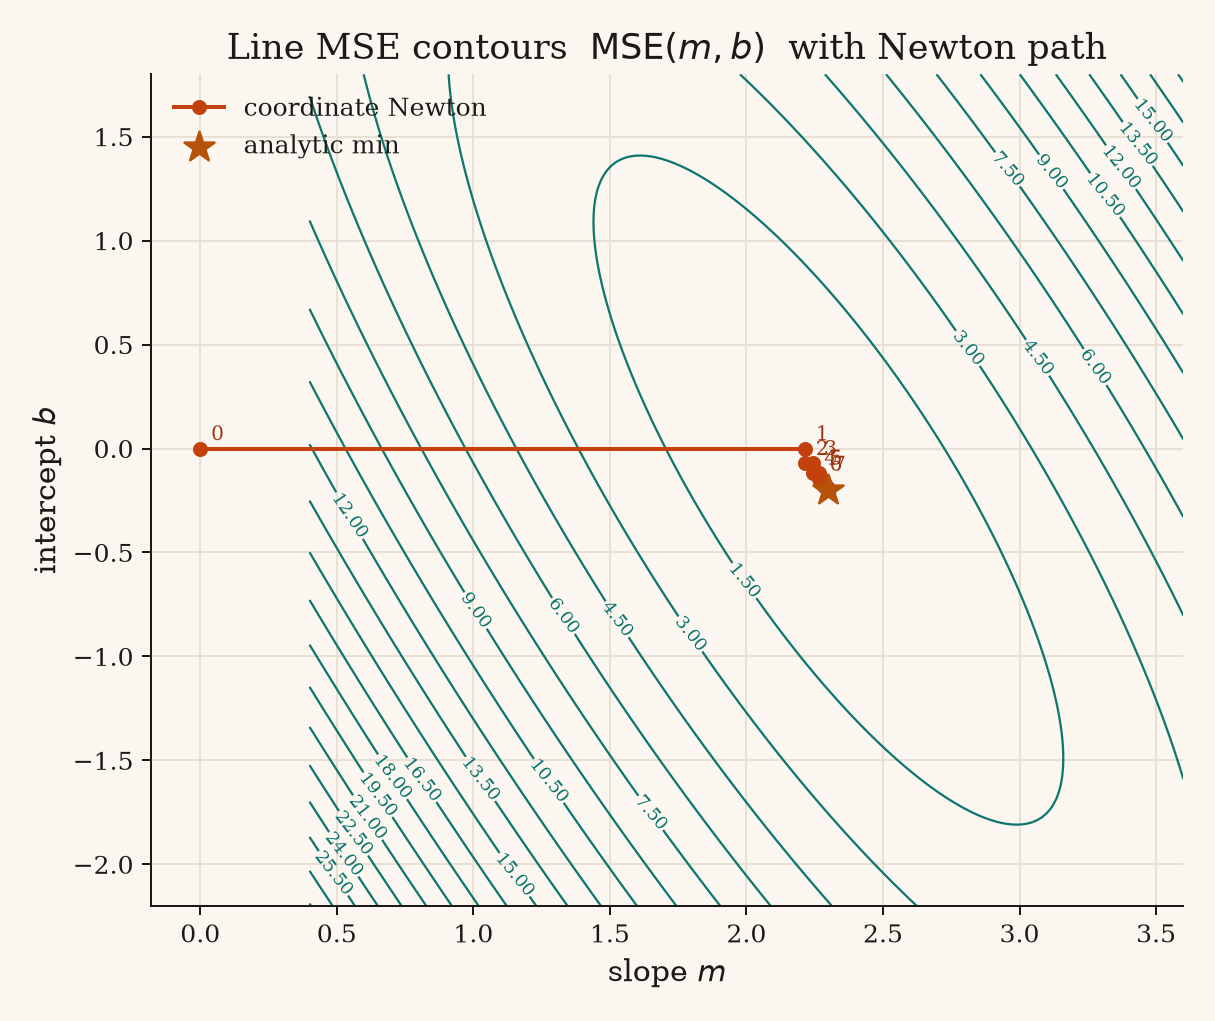
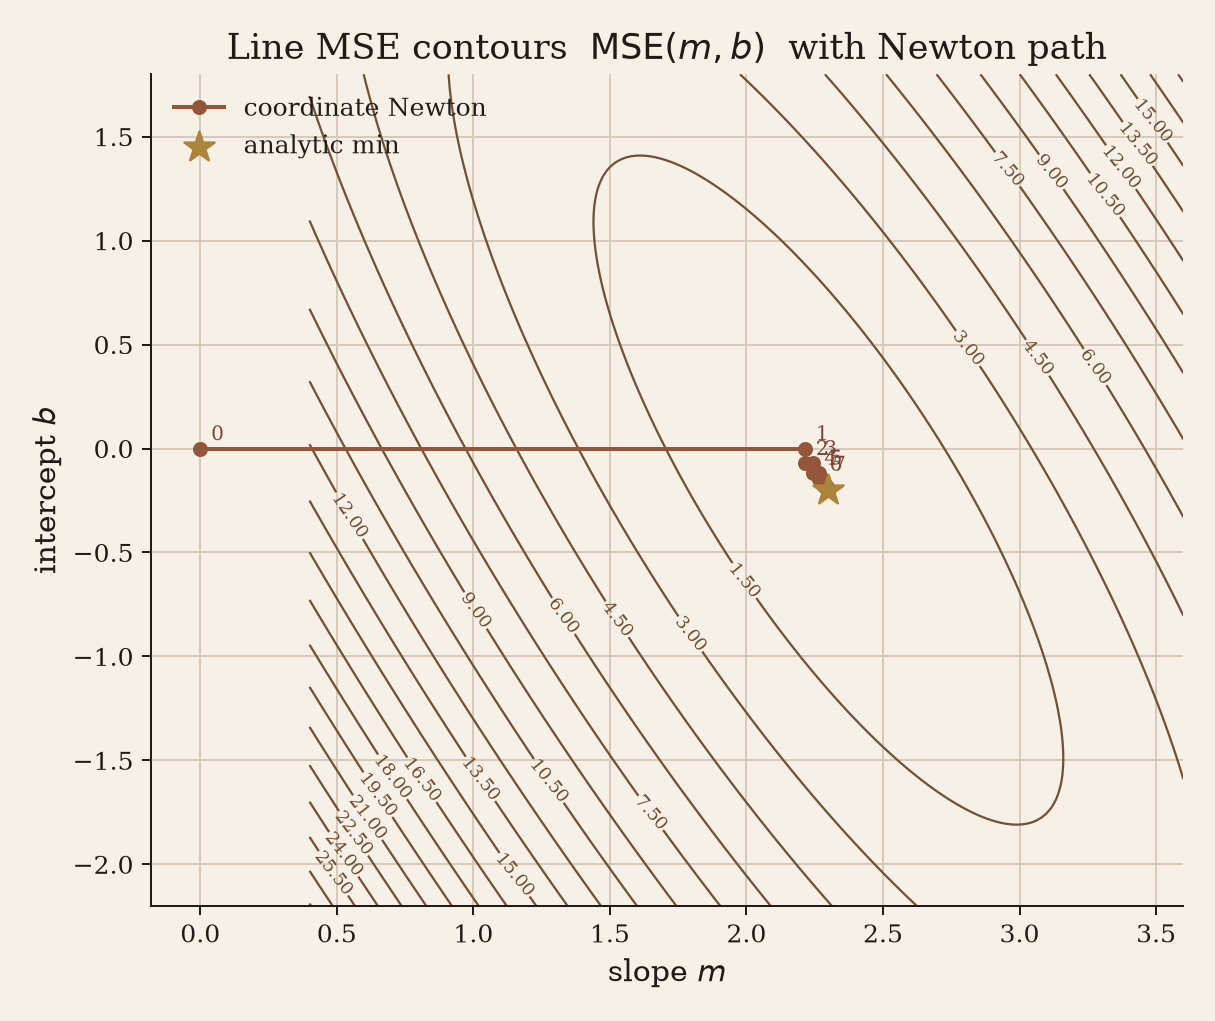
Update styling of figures

diff --git a/1/index.html b/1/index.html
@@ -304,9 +304,9 @@
       <p>
         The figure tests \(y=x^2\) from \((3,1)\),
         \(y=0.5x^2-x+2\) from \((-2,4)\), and
-        \(y=-0.3x^2+4\) from \((1,-2)\). In each panel, the red
-        point is the query, the gold point is Newton's closest point, and
-        the dashed segment joins them. Newton starts at the query's
+        \(y=-0.3x^2+4\) from \((1,-2)\). In each panel, a circle marks
+        the query point and a square marks Newton's closest point. The
+        dashed segment joins them. Newton starts at the query's
         x-coordinate; golden-section search uses \([-8,8]\). The displayed
         distance is Newton's result; golden-section search is also computed
         for comparison but is not plotted here.

diff --git a/1/code/generate_figures.py b/1/code/generate_figures.py
@@ -10,21 +10,26 @@ from pathlib import Path
 import matplotlib.pyplot as plt
 import numpy as np
 from matplotlib.collections import LineCollection
+from matplotlib.colors import LinearSegmentedColormap
 from matplotlib.patches import FancyArrowPatch
 
 ROOT = Path(__file__).resolve().parents[1]
 MEDIA = ROOT / "media"
 MEDIA.mkdir(parents=True, exist_ok=True)
 
-INK = "#1C1917"
-PAPER = "#FBF7F0"
-GRID = "#E8E0D4"
-TERRACOTTA = "#C2410C"
-TEAL = "#0F766E"
-GOLD = "#B45309"
-SLATE = "#57534E"
-CLAY = "#9A3412"
-NAVY = "#1E3A5F"
+INK = "#211A16"
+PAPER = "#F6F0E7"
+GRID = "#D7CABA"
+TERRACOTTA = "#94563B"
+BROWN = "#6F5239"
+GOLD = "#AD843C"
+SLATE = "#49443F"
+CLAY = "#784632"
+NAVY = "#273D56"
+FALL_OLIVE = "#59634B"
+FALL_CMAP = LinearSegmentedColormap.from_list(
+    "fall", [GOLD, TERRACOTTA, BROWN, NAVY]
+)
 
 plt.rcParams.update(
     {
@@ -261,8 +266,8 @@ def annotate_point(ax, x, y, text, color=INK, offset=(8, 8)):
 def fig_overview(results):
     fig, ax = plt.subplots(figsize=(8.6, 6.3))
     xs = np.linspace(-10, 8, 500)
-    ax.plot(xs, xs**2 + 5, color=TEAL, lw=2.6, label=r"$y = x^2 + 5$")
-    colors = [TERRACOTTA, GOLD, NAVY, CLAY, "#7C3AED"]
+    ax.plot(xs, xs**2 + 5, color=BROWN, lw=2.6, label=r"$y = x^2 + 5$")
+    colors = [TERRACOTTA, GOLD, NAVY, CLAY, FALL_OLIVE]
     for (x0, y0), rec, col in zip(QUERY_POINTS, results, colors):
         xstar = rec["x_analytic"]
         ystar = xstar**2 + 5
@@ -302,7 +307,7 @@ def fig_orthogonality():
     ystar = xstar**2 + 5
     fig, ax = plt.subplots(figsize=(8.2, 6.0))
     xs = np.linspace(-10, 2, 400)
-    ax.plot(xs, xs**2 + 5, color=TEAL, lw=2.4, label=r"$f(x)=x^2+5$")
+    ax.plot(xs, xs**2 + 5, color=BROWN, lw=2.4, label=r"$f(x)=x^2+5$")
     ax.scatter([x0], [y0], s=70, color=TERRACOTTA, zorder=5, label="query $(-8,0)$")
     ax.scatter([xstar], [ystar], s=70, color=GOLD, zorder=5, label="closest point")
     ax.plot([x0, xstar], [y0, ystar], color=TERRACOTTA, lw=1.8)
@@ -343,7 +348,7 @@ def fig_newton_geometry(x0=-8.0, y0=0.0, guess=-2.5):
     d, xstar, hist = find_distance_newton(x0, y0, f, df, ddf, initial_guess=guess)
     fig, ax = plt.subplots(figsize=(8.2, 6.0))
     xs = np.linspace(-10, 2, 400)
-    ax.plot(xs, f(xs), color=TEAL, lw=2.4, label=r"$y=x^2+5$")
+    ax.plot(xs, f(xs), color=BROWN, lw=2.4, label=r"$y=x^2+5$")
     ax.scatter([x0], [y0], s=70, color=TERRACOTTA, zorder=6, label="query")
     for i, x in enumerate(hist[:8]):
         if i > 5:
@@ -378,7 +383,7 @@ def fig_newton_dprime(x0=-8.0, y0=0.0, guess=-2.5, hist=None):
     xs = np.linspace(-5.2, 1.2, 500)
     fig, ax = plt.subplots(figsize=(8.2, 5.4))
     ax.axhline(0, color=SLATE, lw=0.9)
-    ax.plot(xs, [Dp(x) for x in xs], color=TEAL, lw=2.2, label=r"$D'(x)$")
+    ax.plot(xs, [Dp(x) for x in xs], color=BROWN, lw=2.2, label=r"$D'(x)$")
     nshow = min(6, len(hist) - 1)
     for i in range(nshow):
         x = hist[i]
@@ -412,7 +417,7 @@ def fig_golden(x0=-8.0, y0=0.0, a=-12.0, b=4.0):
     fig, (ax0, ax1) = plt.subplots(
         2, 1, figsize=(8.2, 7.0), sharex=True, gridspec_kw={"height_ratios": [1.35, 1.0]}
     )
-    ax0.plot(xs, Dvals, color=TEAL, lw=2.2, label=r"$D(x)=(x+8)^2+(x^2+5)^2$")
+    ax0.plot(xs, Dvals, color=BROWN, lw=2.2, label=r"$D(x)=(x+8)^2+(x^2+5)^2$")
     ax0.axvline(xstar, color=TERRACOTTA, ls="--", lw=1.2, label=f"minimizer $x^*={xstar:.4f}$")
     ax0.scatter([xstar], [dist_sq(xstar, x0, y0, f)], color=TERRACOTTA, s=40, zorder=5)
     ax0.set_ylim(70, 220)
@@ -420,7 +425,7 @@ def fig_golden(x0=-8.0, y0=0.0, a=-12.0, b=4.0):
     ax0.set_title("Golden-section search: objective and shrinking bracket")
     ax0.legend(frameon=False, loc="upper right")
 
-    cmap = plt.cm.Oranges
+    cmap = FALL_CMAP
     nplot = min(18, len(hist))
     for i in range(nplot):
         lo, hi, x1, x2 = hist[i]
@@ -461,10 +466,10 @@ def fig_all_points_table_plot(results):
     for (r, c), cell in table.get_celld().items():
         cell.set_edgecolor(GRID)
         if r == 0:
-            cell.set_facecolor(TEAL)
+            cell.set_facecolor(BROWN)
             cell.set_text_props(color="white", fontfamily="DejaVu Sans")
         else:
-            cell.set_facecolor(PAPER if r % 2 else "#F3EDE3")
+            cell.set_facecolor(PAPER if r % 2 else "#EBE1D5")
     ax.set_title("Agreement of analytic, Newton, and golden-section distances", pad=18)
     save(fig, "p1_table.png")
 
@@ -483,7 +488,7 @@ def fig_nonpoly():
         dN, xN, hist = find_distance_newton(x0, y0, f, df, ddf, initial_guess=guess)
         dG, xG, _ = golden_section_search(x0, y0, f, lo, hi)
         xs = np.linspace(lo, hi, 400)
-        ax.plot(xs, f(xs), color=TEAL, lw=2.1, label=label)
+        ax.plot(xs, f(xs), color=BROWN, lw=2.1, label=label)
         ax.scatter([x0], [y0], color=TERRACOTTA, s=50, zorder=5, label="query")
         ax.scatter([xN], [f(xN)], color=GOLD, s=40, zorder=5)
         ax.plot([x0, xN], [y0, f(xN)], color=TERRACOTTA, lw=1.5, ls="--")
@@ -534,9 +539,9 @@ def fig_other_parabolas():
         view_x_max = x_center + view_size / 2
         curve_xs = np.linspace(view_x_min, view_x_max, 600)
 
-        ax.plot(curve_xs, a * curve_xs**2 + b * curve_xs + c, color=TEAL, lw=2.0, label=lab)
-        ax.scatter([x0], [y0], color=TERRACOTTA, s=40, zorder=5)
-        ax.scatter([xstar], [ystar], color=GOLD, s=36, zorder=5)
+        ax.plot(curve_xs, a * curve_xs**2 + b * curve_xs + c, color=BROWN, lw=2.0, label=lab)
+        ax.scatter([x0], [y0], color=TERRACOTTA, marker="o", s=40, zorder=5)
+        ax.scatter([xstar], [ystar], color=GOLD, marker="s", s=36, zorder=5)
         ax.plot([x0, xstar], [y0, ystar], color=TERRACOTTA, ls="--", lw=1.3)
         ax.set_title(f"d={d:.4f}")
         ax.legend(frameon=False, fontsize=7, loc="best")
@@ -558,7 +563,7 @@ def fig_newton_nonpoly_exp():
     d, xstar, hist = find_distance_newton(x0, y0, f, df, ddf, initial_guess=-1.0)
     fig, ax = plt.subplots(figsize=(8.0, 5.2))
     xs = np.linspace(-3, 2, 400)
-    ax.plot(xs, np.exp(xs), color=TEAL, lw=2.3, label=r"$y=e^x$")
+    ax.plot(xs, np.exp(xs), color=BROWN, lw=2.3, label=r"$y=e^x$")
     ax.scatter([x0], [y0], color=TERRACOTTA, s=60, zorder=5, label="(0, 2)")
     for i, x in enumerate(hist[:8]):
         ax.scatter([x], [np.exp(x)], color=GOLD, s=28, zorder=5)
@@ -582,7 +587,7 @@ def fig_fits(m, b, a, bb, c):
     for x, y in POINTS:
         ax.annotate(f"({x:g},{y:g})", (x, y), textcoords="offset points", xytext=(6, 6), fontsize=8, fontfamily="DejaVu Sans")
     ax.plot(xr, m * xr + b, color=TERRACOTTA, lw=2.2, label=fr"line  $y={m:.3f}x{b:+.3f}$")
-    ax.plot(xr, a * xr**2 + bb * xr + c, color=TEAL, lw=2.2, label=fr"parabola  $y={a:.3f}x^2{bb:+.3f}x{c:+.3f}$")
+    ax.plot(xr, a * xr**2 + bb * xr + c, color=BROWN, lw=2.2, label=fr"parabola  $y={a:.3f}x^2{bb:+.3f}x{c:+.3f}$")
     ax.set_xlabel("x")
     ax.set_ylabel("y")
     ax.set_title("Least-squares line and parabola")
@@ -597,7 +602,7 @@ def fig_line_contour(hist):
     M, B = np.meshgrid(ms, bs)
     Z = np.mean((YS[None, None, :] - M[..., None] * XS - B[..., None]) ** 2, axis=2)
     fig, ax = plt.subplots(figsize=(7.4, 6.0))
-    cs = ax.contour(M, B, Z, levels=18, colors=TEAL, linewidths=0.9)
+    cs = ax.contour(M, B, Z, levels=18, colors=BROWN, linewidths=0.9)
     ax.clabel(cs, fmt="%.2f", fontsize=7)
     path = np.array([[h[0], h[1]] for h in hist[:30]])
     ax.plot(path[:, 0], path[:, 1], color=TERRACOTTA, lw=1.6, marker="o", ms=5, label="coordinate Newton")
@@ -616,7 +621,7 @@ def fig_line_intermediates(hist):
     xr = np.linspace(-0.3, 3.3, 100)
     ax.scatter(XS, YS, s=64, color=INK, zorder=5, label="data")
     picks = [0, 1, 2, 3, 4]
-    cmap = plt.cm.Oranges
+    cmap = FALL_CMAP
     for k, i in enumerate(picks):
         if i >= len(hist):
             continue
@@ -634,7 +639,7 @@ def fig_parabola_intermediates(hist):
     xr = np.linspace(-0.3, 3.3, 120)
     ax.scatter(XS, YS, s=64, color=INK, zorder=5, label="data")
     picks = [0, 1, 3, 9, 21, 60]
-    cmap = plt.cm.YlGnBu
+    cmap = FALL_CMAP
     for k, i in enumerate(picks):
         if i >= len(hist):
             continue
@@ -656,7 +661,7 @@ def fig_parabola_intermediates(hist):
 def fig_mse_history(line_hist, para_hist):
     fig, ax = plt.subplots(figsize=(7.8, 4.6))
     ax.semilogy([h[2] for h in line_hist], color=TERRACOTTA, marker="o", lw=1.6, label="line MSE")
-    ax.semilogy([h[3] for h in para_hist], color=TEAL, marker="s", lw=1.6, label="parabola MSE")
+    ax.semilogy([h[3] for h in para_hist], color=BROWN, marker="s", lw=1.6, label="parabola MSE")
     ax.set_xlabel("coordinate-Newton step")
     ax.set_ylabel("MSE")
     ax.set_title("MSE vs. iteration (alternating one-parameter Newton)")
@@ -672,7 +677,7 @@ def fig_residuals(m, b, a, bb, c):
     axes[0].stem(XS, YS - yhat_l, linefmt=TERRACOTTA, markerfmt="o", basefmt="none")
     axes[0].set_title(f"line residuals  MSE={mse_line(m,b):.4f}")
     axes[1].axhline(0, color=SLATE, lw=0.8)
-    axes[1].stem(XS, YS - yhat_p, linefmt=TEAL, markerfmt="s", basefmt="none")
+    axes[1].stem(XS, YS - yhat_p, linefmt=BROWN, markerfmt="s", basefmt="none")
     axes[1].set_title(f"parabola residuals  MSE={mse_parabola(a,bb,c):.4f}")
     for ax in axes:
         ax.set_xlabel("x")
